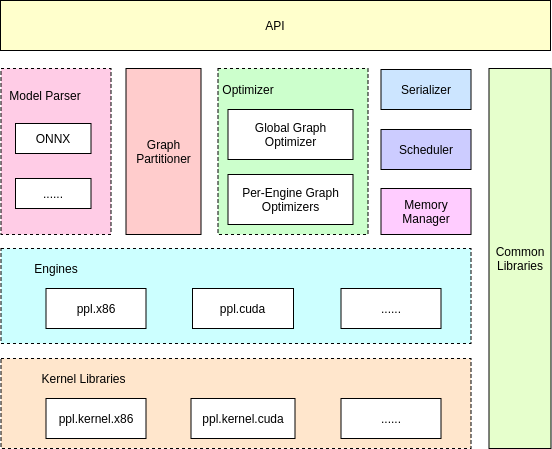
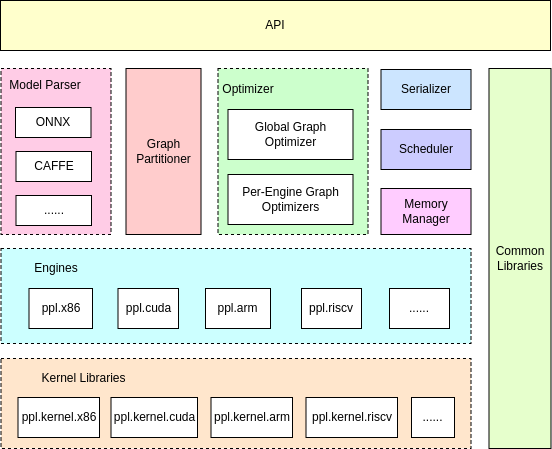
[doc] add docs about internal details

diff --git a/docs/cn/details.md b/docs/cn/details.md
@@ -1,0 +1,178 @@
+# 主要特性
+
+* 支持多种模型格式，可以很方便地加入新的格式支持；
+* 支持不同后端，也可以很方便地加入新后端；
+* 支持将一个模型拆分成若干部分并交给多个异构设备后端执行；
+* 支持不同层次的优化策略；
+* 支持一个模型的多推理实例并行且共享权重数据；
+* 支持执行模型的一部分；
+* 框架开销比例 < 1%；
+* ...
+
+# 整体架构
+
+![alt arch](../images/arch.png)
+
+# 代码结构
+
+* `include`：对外暴露的接口；
+* `cmake`：编译脚本；
+* `docker`：构建用于运行 pplnn 的 docker 配置；
+* `docs`：相关文档；
+* `python`：python 接口封装；
+* `samples`：例子集合；
+* `src/ppl/nn`
+    - `auxtools`：一些辅助工具，不涉及功能的实现；
+    - `common`：一些公共库；
+    - `engines`：后端支持，每种后端的支持都在 `engines` 目录下的一个子目录，例如 `engines/x86`；
+    - `ir`：模型中间表示；
+    - `models`：支持的模型格式，每种模型格式一个目录，例如 `models/onnx`；
+    - `optimizers`：提供的一些通用优化实现，框架只提供实现，不会主动调用这些优化（`GenericOptimizerManager` 除外，这个会默认调用），需要各个后端按需调用；
+    - `oputils`：和 op 相关的一些有用的函数；
+    - `params`：op 属性定义；
+    - `quantization`：量化配置文件解析；
+    - `runtime`：推理运行时的代码；
+    - `utils`：在实现中用到的一些有用的模块，大部分情况都会用到，非必需。
+* `tests`：单元测试；
+* `tools`：有用的工具。
+
+编译出来的 lib 包括以下部分：
+
+* `pplnn_basic_static`：这个是基本框架，包含除了 `engines` 和 `models` 之外的模块；
+* `pplnn_onnx_static`：onnx 模型格式支持，由 `PPLNN_ENABLE_ONNX_MODEL` 控制是否编译，依赖 pplnn_basic_static；
+* `pplnn_cuda_static`：cuda 支持，由 `PPLNN_USE_CUDA` 控制是否编译，依赖 pplnn_basic_static 和 cuda kernel；
+* `pplnn_x86_static`：x86 支持，由 `PPLNN_USE_X86_64` 控制是否编译，依赖 pplnn_basic_static 和  x86 kernel；
+* `pplnn_arm_static`：arm 支持，由 `PPLNN_USE_AARCH64` 控制是否编译，依赖 pplnn_basic_static 和 arm kernel；
+* `pplnn_riscv_static`：riscv 支持，由 `PPLNN_USE_RISCV64` 控制是否编译，依赖 pplnn_basic_static 和 riscv kernel；
+* ...
+
+上面 lib 的依赖关系，在编译生成的 `pplnn-config.cmake` 中都配置好了，建议集成时直接导入这个配置文件。
+
+# 主要数据结构
+
+![alt data-structures](../images/data-structures.png)
+
+## EngineImpl
+
+提供算子实现的后端。一个 `EngineImpl` 实例和一个 `onnx::GraphProto` 实例一一对应。这里要提一下 `ir::Graph` 并不一定对应一个完整的 `onnx::GraphProto`，这个在后面介绍的时候会有说明。如果一个模型里面有 `Loop` 或 `If` 这样包含 `onnx::GraphProto` 的算子，那么在这些算子的实现中也有一个 `EngineImpl` 实例，这个实例是通过 `EngineImpl::Create()` 生成的。上面图中的 `X86Engine`/`CudaEngine`/`NpuEngine` 都是 `EngineImpl` 的派生类。
+
+也负责保存在多个 `RuntimeImpl` 中需要被共享的数据，例如权重及其它。
+
+生命周期贯穿整个推理过程，需要在 `RuntimeImpl` 之后释放。
+
+`EngineImpl::ProcessGraph()` 是执行图优化的函数，结果保存在函数参数中的 `RuntimePartitionInfo`，同时参数列表中的 `ir::Graph::topo` 也要做相应的修改（`ir::Graph::data` 可以不同步修改，因为这部分是在 cpu 上的数据，当 builder 被删除后这部分数据也会被释放）。对于不需要拷到设备上的数据，也可以直接引用 `ir::Graph::data` 中的数据（是一个 shared_ptr 指针）从而减少拷贝。如果是其它设备的话则需要将数据拷贝到设备上，并保存在 `RuntimePartitionInfo::constants` 中（注意：这里要求把转换后的数据保存在 `RuntimePartitionInfo::cconstants` 中是因为序列化的时候会做去重以及压缩，这些工作最好由框架来统一处理）。
+
+## EngineContext
+
+`EngineContext` 是 `RuntimeImpl` 在执行过程中用到的和 engine 相关的内容，在生成 `RuntimeImpl` 的时候会调用 `EngineImpl::CreateEngineContext()` 生成，和 `RuntimeImpl` 实例一一对应。
+
+## ppl::nn::onnx::RuntimeBuilderImpl
+
+用于创建 `RuntimeImpl` 的数据结构。`builder->CreateRuntime()` 可以在不同的线程并行执行，创建出来的多个 `RuntimeImpl` 可以在不同的线程并行执行，这些 `RuntimeImpl` 共享同一份模型数据。
+
+builder 实例在创建完 `RuntimeImpl` 之后可以被释放以节约资源（主要是 `ir::Graph::data`）。
+
+其它模型格式的 builder 类似。
+
+## RuntimeImpl
+
+用于推理的核心数据结构，非线程安全。如果需要执行多个推理实例，可以通过 `builder->CreateRuntime()` 创建多个实例来执行。多个 `RuntimeImpl` 实例共享模型权重（或后端自己的其它数据）。
+
+## OptKernel
+
+保存算子在推理过程中所需的共享的只读数据（推理过程中不需要的数据不要保存，一般情况下会被修改的数据不要保存，如果需要保存会被修改的共享数据，注意多线程访问保护，在 pplnn 中，`OptKernel` 会被不同 `RuntimeImpl` 中的 `KernelImpl` 实例共享，而多个 `RuntimeImpl` 可能会被不同的线程使用）。`onnx::GraphProto` 中每个 `onnx::NodeProto` 实例和 `OptKernel` 实例一一对应。
+
+## KernelImpl
+
+每个 `RuntimeImpl` 实例中用于执行推理的算子实例，由 `OptKernel::CreateKernelImpl()` 生成，可以引用 `OptKernel` 中的只读数据。一个 `KernelImpl` 实例只在一个 `RuntimeImpl` 实例中，同一个 `OptKernel` 生成的多个 `KernelImpl` 可能位于不同的 `RuntimeImpl` 中。
+
+`KernelImpl::Execute()` 是算子执行的入口函数。
+
+## TensorImpl
+
+可以通过 `TensorImpl::SetBufferPtr()` 和  `TensorImpl::GetBufferPtr()` 来设置和获取数据指针。当使用外部设置指针，在内部调用 `TensorImpl::ReallocBuffer()` 时不会对 buffer 做任何操作，默认外部设置的指针可以满足数据大小。通过 `SetBufferPtr()` 设置指针时，必须保证所设置的指针能够被该 tensor 所使用的 device（`TensorImpl::GetDevice()` 返回的结果）操作。例如，cuda 后端 set ptr 的时候要注意所在的 device id。
+
+## Device
+
+算子所用的设备抽象，主要是数据拷贝接口和数据类型转换操作的抽象。在框架的视角，一个 `EngineImpl` 实例只有一个 `Device` 实例，一个 kernel 只跑在一个 device 上。这里要注意的是 `Device` 是框架层面的抽象，并不要求和实际中的设备一一对应，例如，一个 `Device` 可以由多个 cuda 卡组成（自己管理 device id），或者是一个集群，等等。
+
+## InputOutputInfo
+
+用于隐藏获取 `Tensor`/`TensorSequence`/… 等结构的抽象，主要在 `KernelImpl::Execute()` 中使用，用于获取对应的输入输出，以及作为 `KernelImpl::Reshape()` 的参数。
+
+例如，cuda 后端中，由于在图优化的时候需要对 shape 进行推导，推导函数是 `CudaOptKernel` 中的 `infer_dims_func` 和 `infer_type_func`，`KernelImpl::Reshape()` 通常就是调用这两个函数。
+
+# 模型拆分和优化
+
+入口函数是 src/ppl/nn/optimizers/utils.cc 中的 `ppl::nn::utils::ProcessGraph()`。
+
+首先是调用通用的优化函数（`GenericOptimizerManager`），主要是一些简单的处理函数如 `Constant` 算子转成 tensor，去掉 `Dropout` 算子等等。框架会提供一些通用的优化函数如 fuse bn 等等，但是框架不会主动调用这些函数，由各个后端实现的 `EngineImpl::ProcessGraph()` 自己按需调用。
+
+然后是使用 `EngineGraphPartitioner` 来对整个模型做拆分。目前是按照 engine list 的顺序来分配算子，主要逻辑是，如果某个算子类型，第一个 engine 能够支持（`EngineImpl::Supports()` 返回 true），那么该算子就分给第一个 engine；否则检查第二个 engine 是否支持，如果支持则分给第二个 engine，以此类推。分配算子的时候还要注意不要形成循环依赖（`EngineGraphPartitioner` 有注释说明）。可以通过派生 `GraphPartitioner` 来实现不同的拆分策略，在 `EngineOptions` 提供拆分策略配置参数（TODO）。
+
+拆分得到的一部分称为 partition，会交由各个后端实现的 `EngineImpl::ProcessGraph()` 做进一步的优化，优化之后的结果，拓扑关系直接修改 `ir::Graph::topo`，转换后的数据存放在 `GraphPartitionInfo::constants`，每个节点的优化结果（例如算法选择）存放在 `GraphPartitionInfo::kernels`。然后框架把各个后端返回的 `GraphPartitionInfo` 合并成 `GraphRuntimeInfo`。
+
+得到最终的 `GraphRuntimeInfo` 后，会生成用于运行时的一些辅助信息 `RuntimeAuxInfo`。
+
+# 关于 ir::Graph
+
+`ir::Graph` 有两个成员：`topo` 和 `data`。
+
+`topo` 表示图的拓扑关系，主要是一个有向无环图（DAG），包括节点（node）和节点之间的有向边（edge）。node 有 input，output 和 extra input；edge 有 producer 和 consumer。edge 可能是 input，output 或 constant。注意这里的 input 和 output 是通过解析模型配置而不是拓扑关系得到的。举个例子，业务想要将某个中间 edge 作为输出，需要通过 `builder->Configure()` 来标记需要保留，也可以把需要输出的中间 edge 加到 output 中（使用 `topo->MarkAsOutput()`）。如果采用后者，那么解析出来的 topo 中会包含要保留的中间结果，尽管这些中间结果并不是拓扑结构中的 output。
+
+关于 extra input 简单说下，这个主要是包含 `onnx::GraphProto` 的算子会用到的概念。将 `onnx::GraphProto` 类比成编程语言中的 block，edge 类比成 block 中的变量，也就是一个 `onnx::GraphProto` 中的 edge 可以来自外层的 `onnx::GraphProto`。举个例子，某个 `If` 算子 O 中有一个 subgraph S，其中有一条边 E，可以来自包含这个 `If` 算子的 graph G。那么对于算子 O 来说，edge E 就是这个 node 的 extra input；对于 subgraph S 来说，E 也是 extra input，在 graph G 中，E 就是一条正常的边。
+
+`ir::Graph::topo` 中的 node 使用 node id 来标识，edge 使用 edge id 来标识。在同一个 `ir::Graph` 中，node id 和 edge id 都是单调递增的连续整数，也就是说，新增加的 node 和 edge，它们的 id 都是唯一的，已经删掉的 node 和 edge 的 id 不会被复用，因此可以用 id 来标识 node 和 edge，同时由于 id 是连续递增的，也可以使用以 id 为下标的数组来保存数据方便查找。
+
+`ir::Graph::data` 保存 node（也就是 op）的 attr，以及 edge shape。这些数据分别使用 node id 和 edge id 作为索引。
+
+注意到 `ir::GraphTopo` 是一个虚基类，但是 `ir::GraphData` 不是，这是为了方便在做图优化的时候共享数据。由于 node id 和 edge id 在同一个 `ir::Graph` 是唯一的，同时如果有多个 engine 的话，不同的 engine 会读写 `ir::Graph` 的一部分（或全部或没有），为了避免数据拷贝，`ir::GraphData` 在不同 engine 中是共享的，通过 id 可以索引到对应的数据；但是每个 engine 看到的经过 partition 之后分给自己的 `ir::GraphTopo` 是不一样的，在做图优化的时候看到的 edge 并不是同一个。
+
+例如，下面这个简单的 graph ABC：
+
+```
+               +---+
+               | A |
+               +---+
+                / \
+            ab /   \ ac
+              /     \
+           +---+   +===+
+           | B |   | C |
+           +---+   +===+
+```
+
+分成了两个 partition：AB 和 C。对于 AB 来说，边 ac 是 output，只有 producer 没有 consumer；对于 C 来说，ac 是 input，只有 consumer 没有 producer；对于整个 graph ABC 来说，ac 是内部边，既有 producer 也有 consumer；边 ab 的属性没有变化。
+为了区分这种情况，`ir::GraphTopo` 有两个派生类实现：`FullGraphTopo` 和 `PartialGraphTopo`。其中 ABC 是完整的模型，对应的是 `FullGraphTopo`，AB 和 C 对应的都是 `PartialGraphTopo`。从上面的例子可以看到，不同 partition 的 node 不会重合（因此 `ir::Node` 是个 final class，node 都是一样的），但是 edge 会有重合（`ir::Edge` 是个 virtual class），从不同的 partition 看来属性（producer/consumer）也不一样。因此 `PartialGraphTopo::node_ptrs_` 中的指针指向的都是 `FullGraphTopo` 的 node；而对于有变化的边，则会在 `PartialGraphTopo` 中生成新的实例 `PartialEdge`（是 `ir::Edge` 的派生类），保存在 `PartialGraphTopo::override_edges_` 中。`PartialGraphTopo::edge_ptrs_` 数组里面的指针可能指向 `FullGraphTopo` 里面的 edge（例子里的 ab），或者是新生成的 edge（例子里的 ac，存放在 `PartialGraphTopo::override_edges_` 中 ），和 `FullGraphTopo` 中的边拥有同样的 edge id 和 name，但是 producer 和 consumer 不一样。
+
+这样从不同的 engine 看来，它们各自拿到的都是完整的图（`ir::Graph::topo` 是一个指针，可能指向 `FullGraphTopo` 或 `PartialGraphTopo`，`ir::Graph::data` 都是同一个，通过 `topo` 获取 node/edge id 来索引数据，避免不同 partition 之间拷贝），并且操作都会反映到原始模型中（例如在 AB 中把两个节点融合了，那么在 ABC 中看来，AB 也被融合了，并且边 ab 也被删掉了），对整个模型来说，拓扑关系都是正确的。
+
+# 内存管理
+
+通用策略有 3 种：plain，mru 和 bestfit。其中 plain 就是对后端的 alloc/free 函数的封装，由于频繁分配释放，性能一般比较差，通常用来 debug；mru 就是选取最近一次回收的内存块，bestfit 就是选取空闲块中和需要的大小最接近的一块，如果不够就 realloc 补足。
+
+对于支持虚拟地址的后端，还有一种 compact 策略，做法就是先预留一段虚拟地址，当真正需要内存的时候再分配内存块，然后把内存块映射到预留的虚拟地址空间中，这样每次分配的内存块地址都是连续的，释放之后可以和相邻的块合并成一个大块，因此通常比通用策略要省内存。
+
+除了 plain 的释放是真正归还给系统外，mru，bestfit，compact 都是内存管理器负责回收管理，不会还给系统，可能会造成系统内存压力，可以考虑定一个条件（例如本次使用的总内存小于已分配内存的 1/2），在满足条件的情况下重新 realloc（TODO）。目前开源的 cpu（x86，arm，riscv）以及 cuda 默认采用 compact 策略。
+
+默认保留 input/output/constant 的内存，其它中间结果的 tensor 内存会被回收复用。如果需要保留某个中间结果，需要通过 `builder->Configure()` 来指定，如果不在 builder 的时候指定，该 tensor 可能会被图优化删掉。对于目前的串行执行策略，框架预先对节点拓扑排序，然后记录每个 tensor 的最后一个使用到它的 kernel，当该 kernel 执行完之后，会把最后一个使用者是它的 tensor 释放，回收该 tensor 占用的内存。tensor 最后的使用者信息保存在 `RuntimeAuxInfo::edge_last_consumer`。
+
+通过派生 `Device` 类来实现不同的内存管理策略，可以通过 `EngineOptions` 选项指定。
+
+# 调度
+
+目前的调度类是 `SequentialScheduler`，按照预先拓扑排序排好的顺序，串行执行每个 kernel。拓扑排序结果保存在 `RuntimeAuxInfo::sorted_nodes`。
+
+通过派生 `Scheduler` 类来实现不同的调度策略。例如，在 `RuntimeGraphInfo` 中保存了在模型拆分阶段得到的 partition 信息，将 partition 拓扑排序后，没有依赖关系的 partition 可以并行执行。可以通过 `EngineOptions` 指定调度策略（TODO）。
+
+# 执行模型的一部分
+
+pplnn 支持执行模型的某一部分（partition），通过指定 inputs 和 outputs 可以确定要执行的 partition。注意如果要执行的 partition 的输入输出是中间输出的 tensor，需要先通过 `builder->Configure()` 来标记这些 tensor 防止被复用。通过 `RuntimeImpl::CreatePartitionRunner()` 创建一个 `PartitionRunner` 实例来执行指定的 partition。
+
+# PMX 格式
+
+PMX 是 PPL Model eXchange 的缩写，目的是保存经过优化（拆分，算子融合，算法选择，权重转换，等等）之后的模型，模型格式定义在 src/ppl/nn/models/pmx/schema/pmx.fbs。pmx 采用 flatbuffers，特点是加载模型的时候很快，不需要额外的解码操作；缺点是模型文件偏大，这个可以通过对数据进行压缩来解决，在 pmx.fbs 里面的 Constant::flags 可以设置数据压缩相关的 flags（TODO）。
+
+由于 ir 中的 node 和 edge id 只是递增，在经过一系列修改后会出现某些 id 无效的情况。在序列化成 pmx 格式的时候，会将 node 和 edge 重新映射到连续的整数（映射关系保存在 `SerializationContext` 这个结构体中）。如果后端需要支持 pmx 格式的话，序列化的时候需要根据 `SerializationContext` 提供的映射关系，重新映射 node 和 edge id。
+
+从上面的主要数据结构图可以看到，pmx 模型和 onnx/caffe 等通用的模型格式接入的位置不一样。像 onnx/caffe 这些通用的模型格式，需要经过拆分优化等一系列步骤，pmx 模型因为保存的是已经处理过的模型，所以导入之后省略了以上的步骤，最大化地节约模型加载的时间，在端侧这种对加载时间有要求的场景会有用。

diff --git a/README.md b/README.md
@@ -79,6 +79,7 @@ Refer to [Documents](#documents) for more details.
 * Models
   - [Converting ONNX Opset](docs/en/onnx-model-opset-convert-guide.md)
   - [Generating ONNX models from OpenMMLab](docs/en/model-convert-guide.md)
+* [实现细节](docs/cn/details.md)
 
 ### Contact Us
 
